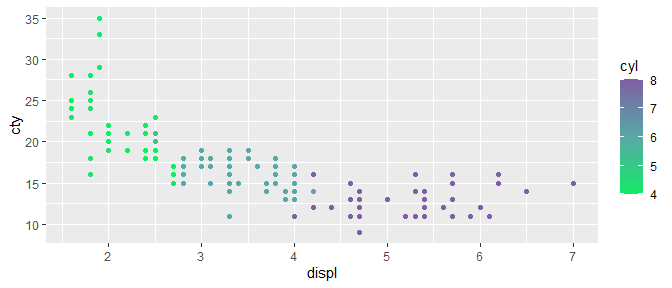
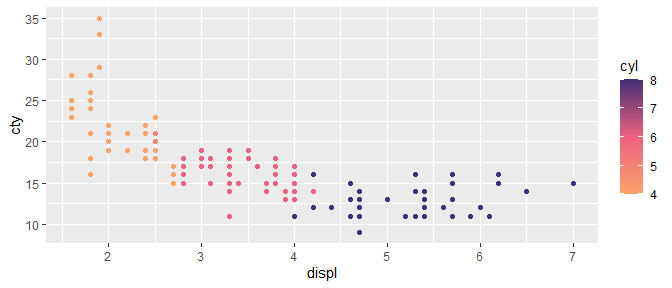
v0.2.1 added new palettes, renamed older ones

diff --git a/README.md b/README.md
@@ -68,13 +68,13 @@ library(adfgcolors)
 library(ggplot2)
 ggplot(mpg, aes(x=displ, y = cty, color = cyl)) +
   geom_point() + 
-  scale_color_adfg(palette = "aurora", discrete = FALSE) 
+  scale_color_adfg(palette = "alpenglow", discrete = FALSE) 
 ```
 
 <img src="man/figures/README-demoplotcolor-1.png" width="100%" />
 
 Often, discrete variable plots look best if the exact order of colors
-are used (no interpolation):
+are used (no interpolation), using argument `useexact = TRUE`:
 
 ``` r
 library(adfgcolors)
@@ -98,7 +98,7 @@ desired. To show palettes, use function `display_palette()`.
 
 ### Continuous (Sequential) Palettes
 
-<img src="man/figures/README-colordemos_cont-1.png" width="100%" /><img src="man/figures/README-colordemos_cont-2.png" width="100%" /><img src="man/figures/README-colordemos_cont-3.png" width="100%" /><img src="man/figures/README-colordemos_cont-4.png" width="100%" />
+<img src="man/figures/README-colordemos_cont-1.png" width="100%" /><img src="man/figures/README-colordemos_cont-2.png" width="100%" /><img src="man/figures/README-colordemos_cont-3.png" width="100%" /><img src="man/figures/README-colordemos_cont-4.png" width="100%" /><img src="man/figures/README-colordemos_cont-5.png" width="100%" />
 
 <br>
 
@@ -111,7 +111,22 @@ variables as it will use the exact order of palettes shown below.*
 ### Other Palettes
 
 **More continuous palettes**  
-<img src="man/figures/README-otherpalettescont-1.png" width="100%" /><img src="man/figures/README-otherpalettescont-2.png" width="100%" />
+<img src="man/figures/README-otherpalettescont-1.png" width="100%" /><img src="man/figures/README-otherpalettescont-2.png" width="100%" /><img src="man/figures/README-otherpalettescont-3.png" width="100%" />
 
 **More discrete palettes**
 <img src="man/figures/README-otherpalettesdisc-1.png" width="100%" /><img src="man/figures/README-otherpalettesdisc-2.png" width="100%" />
+
+## Show Palette
+
+Before plotting, you can show the palette using function
+`display_palette()`. The arguments for this are the palette name and the
+number of colors to display. The associated “hex codes” are shown to
+assist users who may want to manually select colors for use in their own
+palette.
+
+``` r
+
+display_palette("denali", 7)
+```
+
+<img src="man/figures/README-displaypalettedemo-1.png" width="75%" style="display: block; margin: auto;" />
